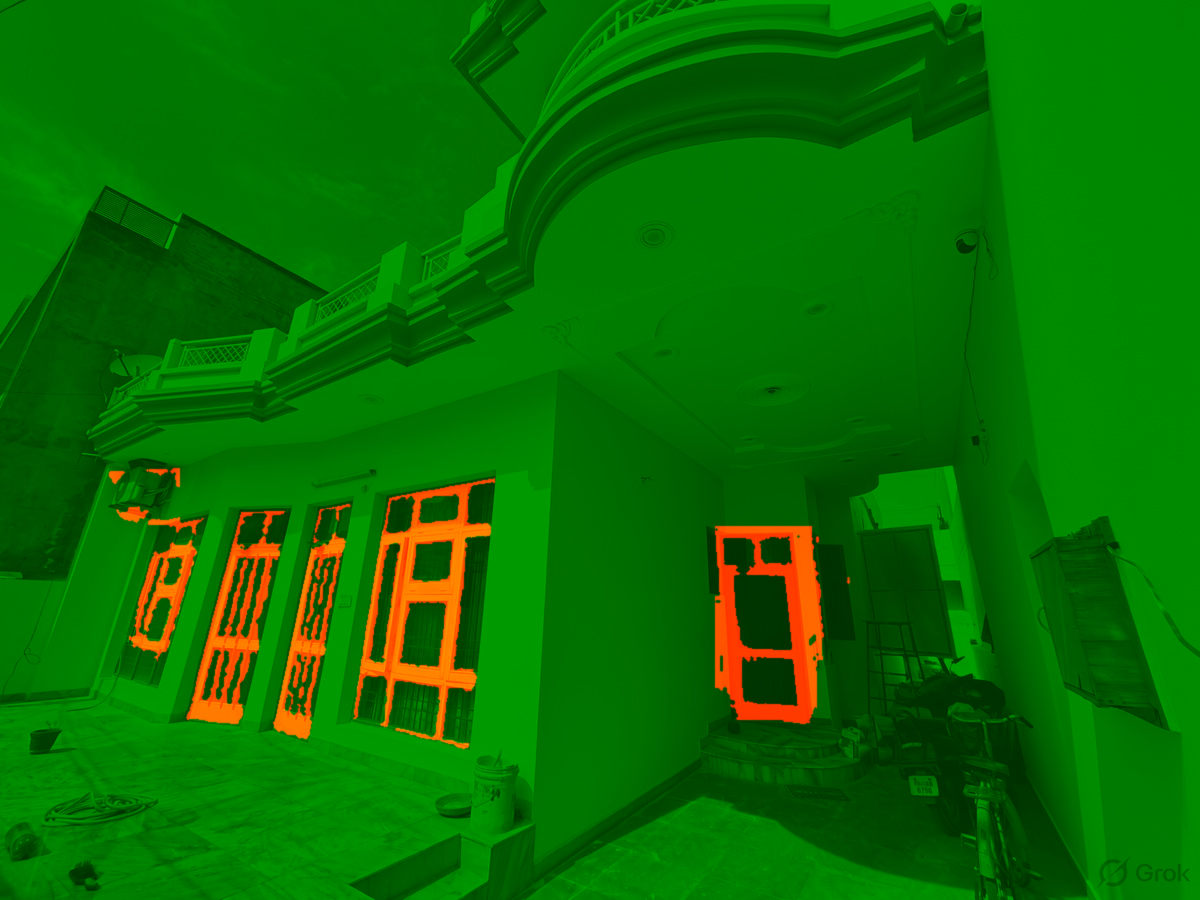
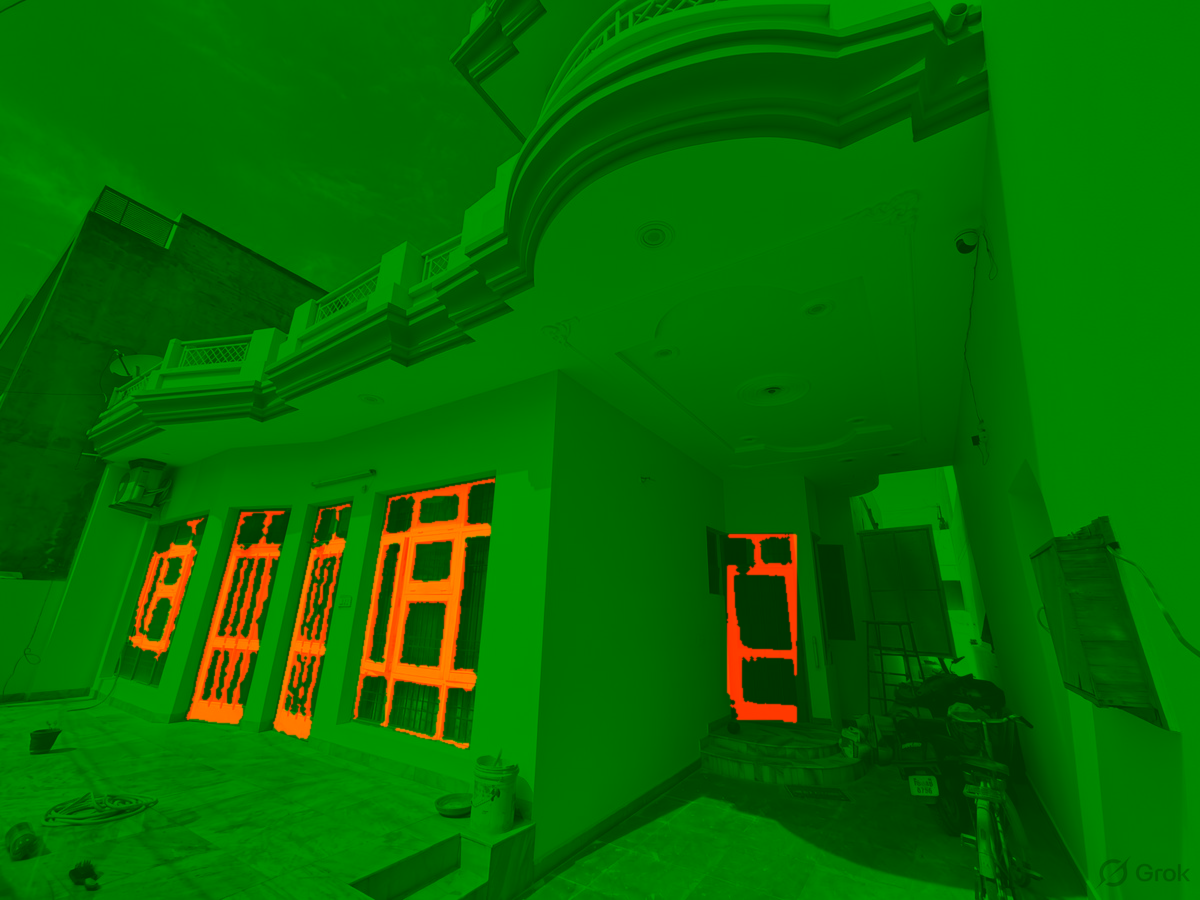
Courtyard: door colour no longer spills onto the walls, step or AC
Claude-Session: https://claude.ai/code/session_01QxgMQVmJUEFPX2ERhwy2pN

Changed region(s): [[0.5858, 0.56, 0.7092, 0.8089], [0.0925, 0.56, 0.1542, 0.5911], [0.1233, 0.4978, 0.1542, 0.5289]]

diff --git a/index.html b/index.html
@@ -273,11 +273,11 @@ for (const k of ["body", "trim"]) { const m = SHADES.find(x => `${x[0]} ${x[1]}`
 const PHOTOS = {
   soft: {
     front: { photo: "img/soft-front.jpg?v=202610151356", map: "img/soft-front-map.png?v=202610151356", ceil: "img/soft-front-extra.png?v=202610151356", real: "img/soft-front-today.jpg?v=202610151356", win: "img/soft-front-win.png?v=202610151400", label: "Front of the house" },
-    court: { photo: "img/soft-court.jpg?v=202610151356", map: "img/soft-court-map.png?v=202610151356", ceil: "img/soft-court-extra.png?v=202610151356", real: "img/soft-court-today.jpg?v=202610151356", win: "img/soft-court-win.png?v=202610151400", label: "Courtyard" },
+    court: { photo: "img/soft-court.jpg?v=202610151356", map: "img/soft-court-map.png?v=202610151356", ceil: "img/soft-court-extra.png?v=202610151356", real: "img/soft-court-today.jpg?v=202610151356", win: "img/soft-court-win.png?v=202610151404", label: "Courtyard" },
   },
   sun: {
   front: { photo: "img/front.jpg?v=202610151328", map: "img/front-map.png?v=202610151328", ceil: "img/front-extra.png?v=202610151328", real: "img/front-today.jpg?v=202610151328", win: "img/front-win.png?v=202610151400", label: "Front of the house" },
-  court: { photo: "img/court.jpg?v=202610151328", map: "img/court-map.png?v=202610151328", ceil: "img/court-extra.png?v=202610151328", real: "img/court-today.jpg?v=202610151328", win: "img/court-win.png?v=202610151400", label: "Courtyard" },
+  court: { photo: "img/court.jpg?v=202610151328", map: "img/court-map.png?v=202610151328", ceil: "img/court-extra.png?v=202610151328", real: "img/court-today.jpg?v=202610151328", win: "img/court-win.png?v=202610151404", label: "Courtyard" },
   gate: { photo: "img/gate.jpg?v=202610151328", map: "img/gate-map.png?v=202610151333", ceil: "img/gate-extra.png?v=202610151328", real: "img/gate-today.jpg?v=202610151328", win: "img/gate-win.png?v=202610151400", label: "Main gate" },
   },
 };
